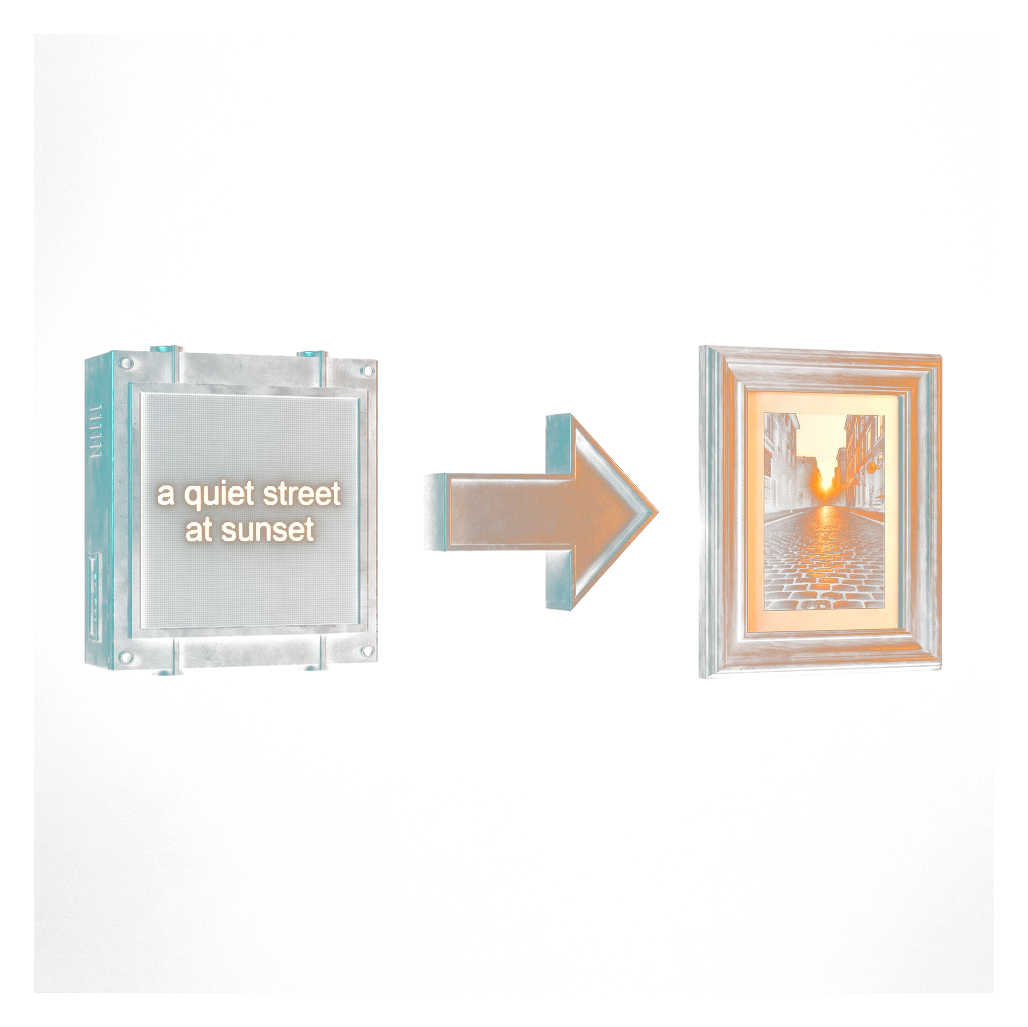
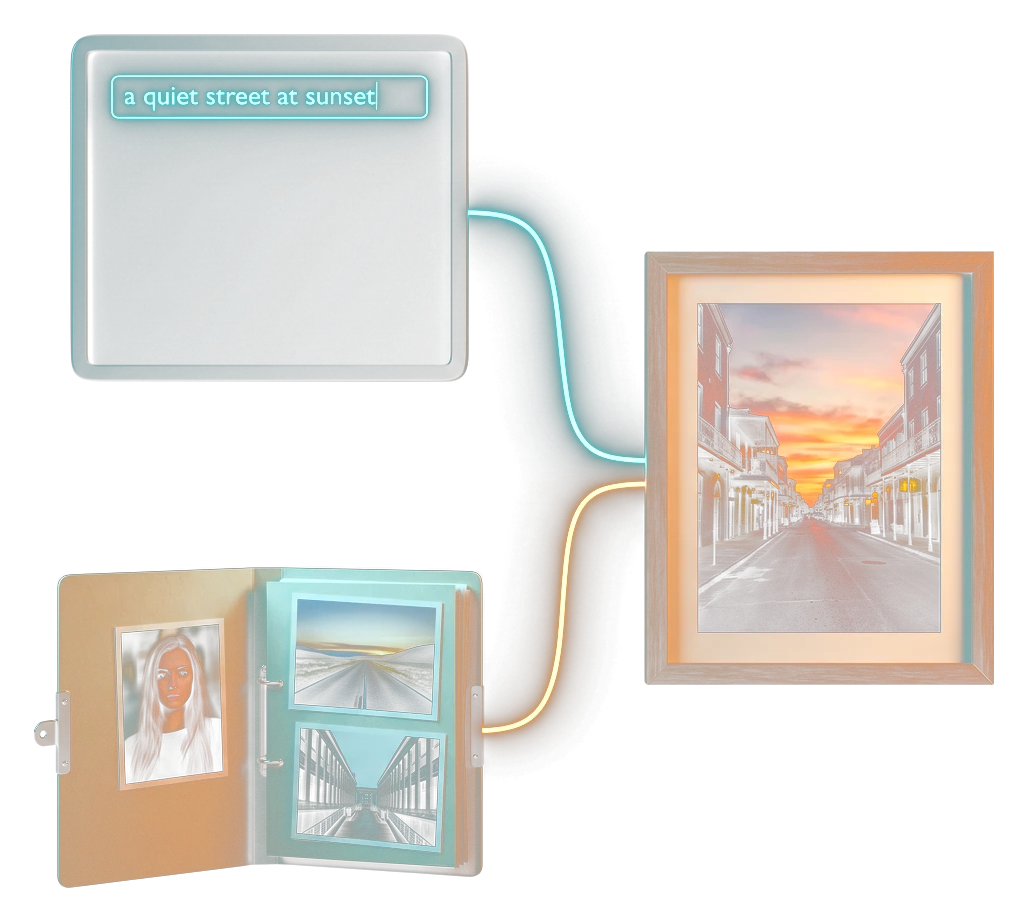
Unisci genera e rifai in una scheda sola, che erano due porte dello stesso lavoro
«Genera immagini» e «Rifai un set di foto» avevano la stessa icona, lo stesso
progetto, gli stessi requisiti e lo stesso posto dove finivano le fotografie: due
schede affiancate che si leggevano come due strumenti mentre l'unica differenza
era da dove parti — una frase che scrivi, o una cartella di scatti che gia' hai.

La scheda ora ne ha due, e ognuna porta al suo motore: il tasto dichiara la porta
(`starter`) e il server sceglie l'avvio con `id:partenza`. Le due partenze hanno
segni diversi, la scrittura e la cartella, perche' due tasti vicini con la stessa
manopola obbligano a leggere le etichette per scoprire che fanno cose diverse.

Il punto fragile e' proprio quella chiave: se cambia nome da una parte sola non
protesta nessuno, il tasto cade sull'altro avvio e fa il lavoro sbagliato in
silenzio. `tests/avvii.test.ts` confronta le due liste nei due versi, e la
richiesta senza partenza — una pagina rimasta indietro — ora dice quali esistono
invece di rispondere «non ha un avvio rapido», che manderebbe a cercare un
motore mancante che c'e'.

La copertina e' rifatta a mostrare tutte e due gli ingressi verso una sola
fotografia; quella di «rifai» e la sua icona orfana se ne vanno con lei.

diff --git a/server/routes/tools.ts b/server/routes/tools.ts
@@ -72,8 +72,15 @@ function projectOf(given?: string): string {
   return currentProjectId();
 }
 
+/**
+ * Chi esegue un avvio.
+ *
+ * La chiave e' l'id dello strumento, oppure `id:chiave` quando lo strumento ha piu'
+ * di una partenza: «genera e rifai» ne ha due — da una frase e da una cartella — e
+ * sono due lavori diversi che finiscono nello stesso posto.
+ */
 const STARTERS: Record<string, (v: Values, project?: string) => Outcome | Promise<Outcome>> = {
-  generate: (v, prog) => {
+  "generate:testo": (v, prog) => {
     const prompt = text(v, "prompt");
     if (!prompt) throw new Error("Serve il prompt: senza, non c'è niente da generare.");
     const pid = projectOf(prog);
@@ -86,7 +93,7 @@ const STARTERS: Record<string, (v: Values, project?: string) => Outcome | Promis
     };
   },
 
-  retouch: (v) => {
+  "generate:cartella": (v) => {
     const name = text(v, "name");
     const folder = text(v, "folder");
     if (!name) throw new Error("Serve un nome per il lavoro.");
@@ -198,27 +205,48 @@ const STARTERS: Record<string, (v: Values, project?: string) => Outcome | Promis
   },
 };
 
-/** The ids that have an engine. Exported for the test that verifies the
- *  correspondence with the catalogue without having to CALL the starts —
- *  calling them would mean launching Chrome inside a suite. */
-export const STARTABLE = new Set(Object.keys(STARTERS));
+/** Gli id che hanno un motore. Esportato per la prova che verifica la
+ *  corrispondenza col catalogo senza CHIAMARE gli avvii — chiamarli vorrebbe dire
+ *  aprire Chrome dentro una suite.
+ *
+ *  Una chiave composta `id:partenza` conta per il suo id: al catalogo interessa che
+ *  lo strumento sia avviabile, non da quale delle sue porte. */
+export const STARTABLE = new Set(Object.keys(STARTERS).map((k) => k.split(":")[0]!));
+
+/** Le chiavi cosi' come sono scritte, `id` oppure `id:partenza`. Serve alla prova
+ *  che le confronta col catalogo: una partenza che cambia nome da una parte sola non
+ *  darebbe nessun errore, il tasto cadrebbe sull'altro avvio e farebbe il lavoro
+ *  sbagliato. */
+export const CHIAVI_AVVIO = new Set(Object.keys(STARTERS));
 
 toolRoutes.post("/api/tools/:id/start", async (c) => {
   const id = c.req.param("id");
   const s = tool(id);
   if (!s) return c.json({ error: `strumento sconosciuto: ${id}` }, 404);
-  const start = STARTERS[id];
-  if (!start) {
-    return c.json(
-      { error: `«${s.name}» si apre dentro un progetto: non ha un avvio rapido.` },
-      400,
-    );
-  }
-
   const body = (await c.req.json().catch(() => ({}))) as {
     project?: string;
     values?: Values;
+    starter?: string;
   };
+
+  // La partenza scelta, quando ce n'e' piu' d'una. Senza, resta quella sola dello
+  // strumento: chi ne ha un avvio solo non ha niente da dichiarare.
+  const chiave = String(body.starter ?? "");
+  const start = (chiave && STARTERS[`${id}:${chiave}`]) || STARTERS[id];
+  if (!start) {
+    // Due assenze diverse, e dirle uguali manderebbe a cercare la cosa sbagliata:
+    // lo strumento che si apre e basta non ha motori; quello a piu' partenze li ha,
+    // ed e' la partenza chiesta a non esistere — di solito una pagina non aggiornata.
+    const porte = [...CHIAVI_AVVIO].filter((k) => k.startsWith(`${id}:`)).map((k) => k.slice(id.length + 1));
+    return c.json(
+      {
+        error: porte.length
+          ? `«${s.name}» ha ${porte.length} partenze (${porte.join(", ")}) e «${chiave || "nessuna"}» non e' una di quelle.`
+          : `«${s.name}» si apre dentro un progetto: non ha un avvio rapido.`,
+      },
+      400,
+    );
+  }
 
   const req = await requirements(saluteBrowser);
   const missing = s.needs.filter((r: Requirement) => !req[r].ok);

diff --git a/server/tools.ts b/server/tools.ts
@@ -78,8 +78,8 @@ export type StartField = {
  */
 export type Start =
   | { mode: "open"; label: string; route: string; view: ProjectKind }
-  | { mode: "new"; label: string; fields: StartField[]; note?: string }
-  | { mode: "now"; label: string; fields: StartField[]; note?: string };
+  | { mode: "new"; label: string; fields: StartField[]; note?: string; key?: string }
+  | { mode: "now"; label: string; fields: StartField[]; note?: string; key?: string };
 
 export type Tool = {
   id: string;
@@ -103,41 +103,37 @@ export const TOOLS: Tool[] = [
   // ---- immagini -----------------------------------------------------------
   {
     id: "generate",
-    name: "Genera immagini",
-    what: "Da un testo, senza foto di partenza. Finiscono in galleria come tutto il resto.",
+    name: "Genera e rifai immagini",
+    what: "Da una frase, o da una cartella di scatti che gia' hai. Finiscono in galleria come tutto il resto.",
     area: "images",
     icon: "generate",
     views: ["photo"],
-    api: ["POST /api/generate-new", "GET /api/jobs"],
-    mcp: ["generate_image", "list_jobs"],
+    api: [
+      "POST /api/generate-new", "GET /api/jobs",
+      "POST /api/generate-missing", "POST /api/photos/:id/generate",
+      "PUT /api/settings/global-prompt",
+    ],
+    mcp: ["generate_image", "list_jobs", "generate_missing", "edit_photo", "set_global_prompt"],
     needs: ["generator"],
+    // Due partenze, una scheda. Erano due schede — «genera» e «rifai» — con la
+    // stessa icona, lo stesso progetto e lo stesso posto dove finivano le foto: si
+    // leggevano come due strumenti diversi mentre sono due ingressi dello stesso.
+    // Cosa cambia e' solo da dove parti: una frase, o una cartella che gia' hai.
     starters: [
       {
         mode: "now",
-        label: "Genera adesso",
-        note: "Va in coda sul progetto scelto. Se non ne scegli uno, ne apro uno nuovo.",
+        key: "testo",
+        label: "Da una frase",
+        note: "Nessuno scatto di partenza: descrivi e basta. Va in coda sul progetto scelto.",
         fields: [
           { name: "prompt", label: "Cosa vuoi vedere", kind: "long", required: true,
             placeholder: "un vicolo di Kyoto sotto la pioggia, insegne al neon, 35mm" },
           { name: "count", label: "Quante", kind: "number", fallback: 1 },
         ],
       },
-      { mode: "open", label: "Apri la galleria", route: "/p/:pid", view: "photo" },
-    ],
-  },
-  {
-    id: "retouch",
-    name: "Rifai un set di foto",
-    what: "Mette in coda ogni foto senza versioni, con il prompt del progetto. Una cartella intera in un clic.",
-    area: "images",
-    icon: "retouch",
-    views: ["photo"],
-    api: ["POST /api/generate-missing", "POST /api/photos/:id/generate", "PUT /api/settings/global-prompt"],
-    mcp: ["generate_missing", "edit_photo", "set_global_prompt"],
-    needs: ["generator"],
-    starters: [
       {
         mode: "new",
+        key: "cartella",
         label: "Da una cartella",
         note: "Indicizzo la cartella (senza copiare niente) e accodo tutte le foto.",
         fields: [

diff --git a/tests/avvii.test.ts b/tests/avvii.test.ts
@@ -1,0 +1,39 @@
+import { describe, expect, test } from "bun:test";
+import { TOOLS } from "../server/tools.ts";
+import { CHIAVI_AVVIO } from "../server/routes/tools.ts";
+
+/**
+ * Le partenze del catalogo e i motori che le eseguono.
+ *
+ * «Genera e rifai immagini» ha due partenze — da una frase e da una cartella — e
+ * sono due lavori diversi che finiscono nello stesso posto. Il server sceglie quale
+ * eseguire da una chiave scritta nel catalogo: se quella chiave cambia da una parte
+ * sola nessuno protesta, il tasto cade sull'altro avvio e fa il lavoro sbagliato
+ * senza dirlo. Questa prova e' l'unico posto in cui quella slegatura si vede.
+ */
+describe("ogni partenza ha il suo motore", () => {
+  const conChiave = TOOLS.flatMap((t) =>
+    t.starters
+      .filter((s): s is Extract<typeof s, { key?: string }> => s.mode !== "open" && !!(s as { key?: string }).key)
+      .map((s) => ({ tool: t.id, key: (s as { key?: string }).key!, label: s.label })),
+  );
+
+  test("le partenze dichiarate esistono davvero dall'altra parte", () => {
+    const orfane = conChiave.filter((s) => !CHIAVI_AVVIO.has(`${s.tool}:${s.key}`));
+    expect(orfane).toEqual([]);
+  });
+
+  test("e nessun motore a chiave resta senza la sua partenza", () => {
+    const dichiarate = new Set(conChiave.map((s) => `${s.tool}:${s.key}`));
+    const sospese = [...CHIAVI_AVVIO].filter((k) => k.includes(":") && !dichiarate.has(k));
+    expect(sospese).toEqual([]);
+  });
+
+  test("«genera e rifai» ha le due partenze, e portano a due lavori diversi", () => {
+    const t = TOOLS.find((x) => x.id === "generate")!;
+    const chiavi = t.starters.map((s) => (s as { key?: string }).key).filter(Boolean);
+    expect(chiavi.sort()).toEqual(["cartella", "testo"]);
+    expect(CHIAVI_AVVIO.has("generate:testo")).toBe(true);
+    expect(CHIAVI_AVVIO.has("generate:cartella")).toBe(true);
+  });
+});

diff --git a/client/src/pages/Home.tsx b/client/src/pages/Home.tsx
@@ -17,8 +17,10 @@ import {
   ArrowRight,
   ChevronDown,
   CircleHelp,
+  FolderInput,
   Play,
   SlidersHorizontal,
+  Type,
   X,
 } from "lucide-react";
 
@@ -253,6 +255,20 @@ function Tools({ cat, projects }: { cat: Catalogue | null; projects: StudioProje
 // ---------------------------------------------------------------------------
 
 /**
+ * Il segno della partenza.
+ *
+ * Una scheda con due partenze le mette una accanto all'altra: dare a tutte e due
+ * la stessa manopola vuol dire che l'occhio deve leggere le due etichette per
+ * capire che sono due cose diverse. La differenza sta in **da dove parti** — una
+ * frase che scrivi, una cartella che gia' hai — ed e' quella che va disegnata.
+ * Chi non dichiara la porta tiene la manopola: e' l'unica partenza che ha.
+ */
+const SEGNO_PARTENZA: Record<string, typeof SlidersHorizontal> = {
+  testo: Type,
+  cartella: FolderInput,
+};
+
+/**
  * A tool and its ways in.
  *
  * The card is as tall as its sisters: header at the top, controls anchored at
@@ -355,7 +371,10 @@ function ToolCard({
                 title={s.ready ? a.note : s.missing[0]?.how}
                 onClick={() => setOpen(open === a ? null : a)}
               >
-                <SlidersHorizontal  aria-hidden />
+                {(() => {
+                  const Segno = (a.key && SEGNO_PARTENZA[a.key]) || SlidersHorizontal;
+                  return <Segno aria-hidden />;
+                })()}
                 {a.label}
               </Bott>
             ),
@@ -521,6 +540,7 @@ function Form({
     setErr(null);
     try {
       const r = await api.startTool(tool.id, {
+        starter: start.key,
         // A start that CREATES the project does not receive one: sending it
         // would be an instruction nobody is looking at.
         project: start.mode === "now" ? scelto?.id : undefined,

diff --git a/scripts/copertine.ts b/scripts/copertine.ts
@@ -59,8 +59,7 @@ const STILE =
  * sbagliato, non l'immagine.
  */
 const SOGGETTI: Record<string, string> = {
-  generate: "Solo tre cose: a sinistra un campo di testo scuro con dentro scritto \"a quiet street at sunset\", al centro una freccia, a destra una sola fotografia incorniciata di una strada al tramonto",
-  retouch: "Solo tre cose: a sinistra tre fotografie affiancate piatte e slavate, al centro una freccia, a destra le stesse tre gia' sviluppate e contrastate",
+  generate: "Solo tre cose, due che entrano e una che esce: in alto a sinistra un campo di testo scuro con dentro scritto \"a quiet street at sunset\", in basso a sinistra una cartella aperta con dentro tre fotografie, e a destra, piu' grande, una sola fotografia incorniciata di una strada al tramonto verso cui puntano tutte e due",
   prompt: "Solo due cose: a sinistra tre cursori su un pannello scuro, a destra una sola fotografia che ne risente, piu' chiara",
   color: "Una cosa sola: una fotografia di paesaggio divisa a meta' da una linea verticale netta, la meta' sinistra piatta e desaturata, la meta' destra sviluppata con colore e contrasto",
   export: "Solo due cose: una cartella aperta a sinistra e tre fotografie che ne escono verso destra",

diff --git a/tests/tools.test.ts b/tests/tools.test.ts
@@ -119,6 +119,21 @@ describe("POST /api/tools/:id/start", () => {
     expect(((await r.json()) as any).error).toContain("progetto");
   });
 
+  test("a start asked by a name that does not exist names the real ones", async () => {
+    // Il caso vero: una pagina rimasta indietro chiede «genera» senza dire da quale
+    // delle due porte. Rispondere «non ha un avvio rapido», come per gli strumenti
+    // che si aprono e basta, manderebbe a cercare un motore mancante che c'e'.
+    const r = await app.request("/api/tools/generate/start", {
+      method: "POST",
+      body: JSON.stringify({ values: {} }),
+    });
+    expect(r.status).toBe(400);
+    const messaggio = ((await r.json()) as any).error as string;
+    expect(messaggio).toContain("testo");
+    expect(messaggio).toContain("cartella");
+    expect(messaggio).not.toContain("non ha un avvio rapido");
+  });
+
   test("a missing required field returns the reason, not a 500", async () => {
     const r = await app.request("/api/tools/projects/start", {
       method: "POST",

diff --git a/client/src/api/client.ts b/client/src/api/client.ts
@@ -558,7 +558,10 @@ export const api = {
   toolProjects: (id: string) =>
     jsonFetch<{ projects: StudioProject[] }>(`/api/tools/${encodeURIComponent(id)}/projects`),
   /** Begins a tool: does the work and answers with the page to go to. */
-  startTool: (id: string, body: { project?: string; values?: Record<string, string | number> }) =>
+  startTool: (
+    id: string,
+    body: { project?: string; values?: Record<string, string | number>; starter?: string },
+  ) =>
     jsonFetch<StartOutcome>(`/api/tools/${encodeURIComponent(id)}/start`, {
       method: "POST",
       body: JSON.stringify(body),

diff --git a/client/src/api/types.ts b/client/src/api/types.ts
@@ -667,7 +667,9 @@ export type StartField = {
 
 export type Start =
   | { mode: "open"; label: string; route: string; view: ProjectKind }
-  | { mode: "new" | "now"; label: string; fields: StartField[]; note?: string };
+  /** `key` distingue le partenze di uno strumento che ne ha piu' d'una: e' quella
+   *  che il server usa per sapere quale lavoro sta cominciando. */
+  | { mode: "new" | "now"; label: string; fields: StartField[]; note?: string; key?: string };
 
 export type Tool = {
   id: string;

diff --git a/client/src/iconNames.ts b/client/src/iconNames.ts
@@ -20,7 +20,6 @@ import {
   ListX,
   Palette,
   PlugZap,
-  Repeat2,
   ScanEye,
   ScissorsLineDashed,
   SlidersHorizontal,
@@ -40,7 +39,6 @@ import {
  */
 export const ICONS: Record<string, LucideIcon> = {
   generate: ImagePlus,
-  retouch: Repeat2,
   prompt: SlidersHorizontal,
   color: SwatchBook,
   export: FolderOutput,
